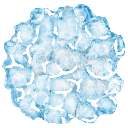
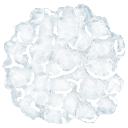
Fix red border bug for real and tweak ice crystals some more.

diff --git a/EventHorizonRider.Core/Components/SpaceComponents/Background.cs b/EventHorizonRider.Core/Components/SpaceComponents/Background.cs
@@ -60,7 +60,7 @@ namespace EventHorizonRider.Core.Components.SpaceComponents
             RotationalVelocity = Level.DefaultRotationalVelocity;
 
             // HACK: This fudge factor helps hide intermitent red border caused by some issue in gaussian blur code
-            const float fudgeFactor = 1.0001f;
+            const float fudgeFactor = 1.1f;
             radialGradientScale = new Vector2(
                 (float)DeviceInfo.LogicalWidth / radialGradient.Width,
                 (float)DeviceInfo.LogicalWidth / radialGradient.Width) * fudgeFactor;

diff --git a/EventHorizonRider.Core/Components/SpaceComponents/RingFactory.cs b/EventHorizonRider.Core/Components/SpaceComponents/RingFactory.cs
@@ -76,7 +76,7 @@ namespace EventHorizonRider.Core.Components.SpaceComponents
                 MathUtilities.LinearInterpolate(Color.Tan.AdjustLight(0.8f), Color.Beige.AdjustLight(0.9f), 0.5)
             };
 
-            crystals = LoadData(content, "crystals", 1, hasShadow: false);
+            crystals = LoadData(content, "crystals", 2, hasShadow: false);
             crystals.DensityRange = Range.Create(65, 75);
             crystals.ScaleRange = Range.Create(0.2f, 0.8f);
             crystals.RadiusOffsetJitter = 10f;
